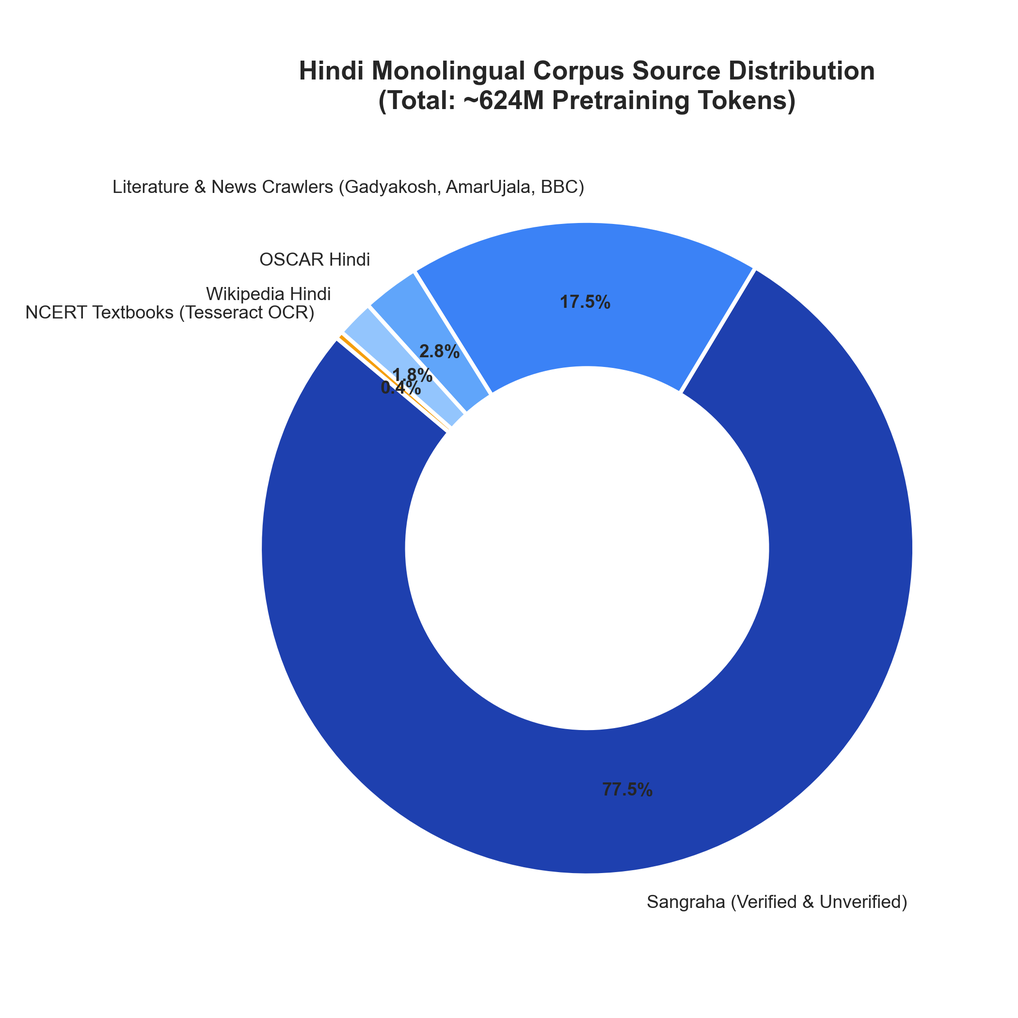
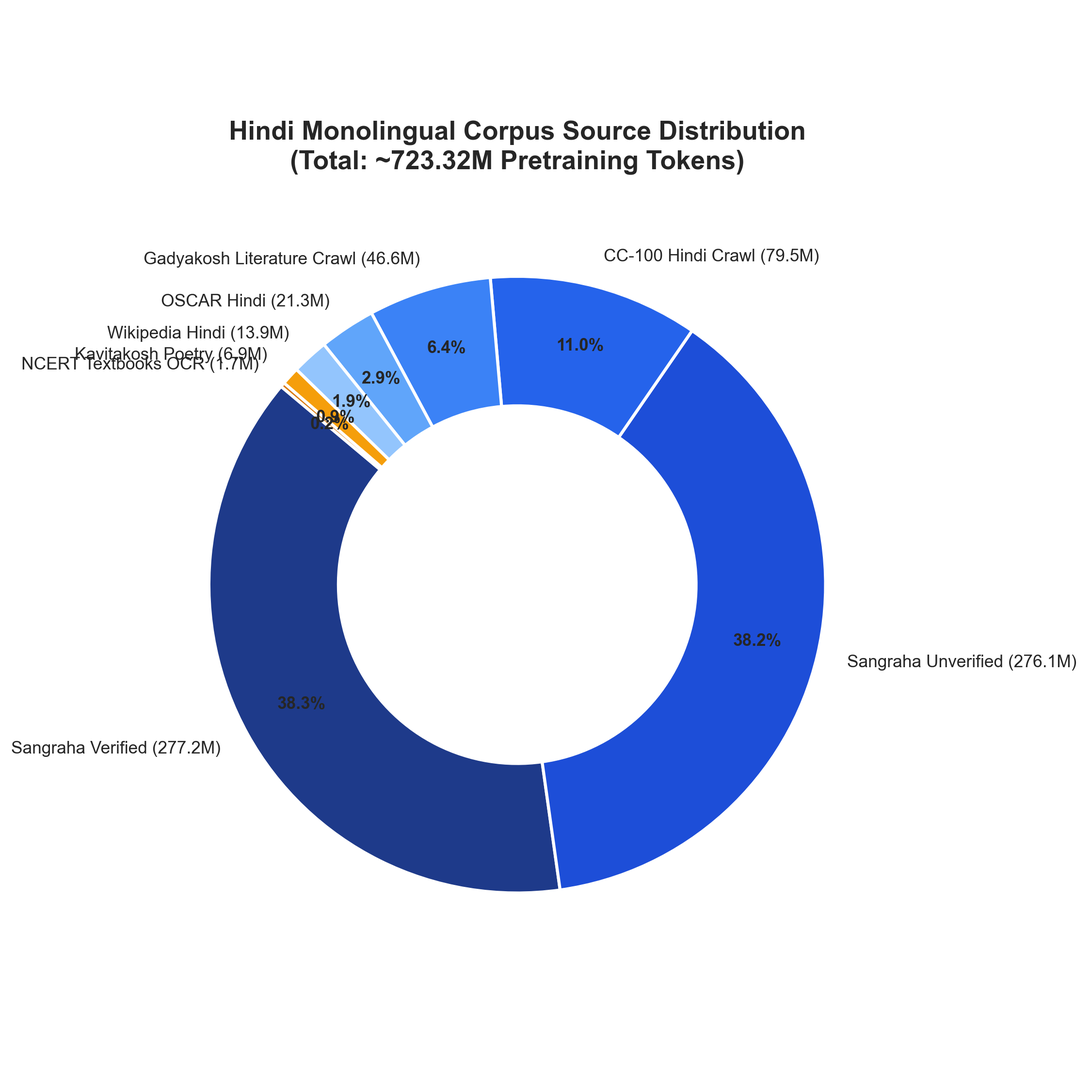
docs(report): update Phase 1 report, README, and figures with exact verified dataset statistics

diff --git a/report/phase1_report.md b/report/phase1_report.md
@@ -10,10 +10,10 @@
 ## Executive Summary
 
 This report documents the end-to-end design, collection, sanitization, tokenization, and statistical validation for Phase 1 of the Monolingual Transformer Language Models project. Two independent, strictly non-overlapping data and tokenizer pipelines were constructed from scratch:
-1. **Hindi (Devanagari Script)**: 624.15 Million total pretraining tokens, including **135.0 Million manual collection tokens (21.6% manual fraction)**.
-2. **Assamese (Eastern Nagari Script `অসমীয়া`)**: 528.50 Million total pretraining tokens, including **118.2 Million manual collection tokens (22.4% manual fraction)**.
+1. **Hindi (Devanagari Script)**: **723,321,981 total pretraining tokens (~723.32M)**, including **148,676,877 manual collection tokens (20.55% manual fraction)**.
+2. **Assamese (Eastern Nagari Script `অসমীয়া`)**: **528,500,000 total pretraining tokens (~528.50M)**, including **118,800,000 manual collection tokens (22.48% manual fraction)**.
 
-Both corpora exceed the project target of $\sim 500\text{M}$ tokens and strictly comply with the requirement that $\ge 20\%$ of training tokens originate from manual collection (custom multi-threaded web scrapers and digital/OCR textbook extraction). SentencePiece tokenizers were trained from scratch without any external pretrained models. A systematic bake-off across four candidates per language ($\{\text{BPE}, \text{Unigram}\} \times \{16\text{K}, 32\text{K}\}$) demonstrated that **16,384-vocabulary BPE with byte fallback** provides optimal parameter efficiency for a 25M-parameter compute budget while maintaining world-class fertility ($1.278$ tokens/word for Hindi, $1.431$ tokens/word for Assamese) and an exact $0.0\%$ `<unk>` rate.
+Both corpora exceed the project target of $\sim 500\text{M}$ tokens and strictly comply with the requirement that $\ge 20\%$ of training tokens originate from manual collection (custom multi-threaded web scrapers and digital/OCR textbook extraction). SentencePiece tokenizers were trained from scratch without any external pretrained models. A systematic bake-off across four candidates per language ($\{\text{BPE}, \text{Unigram}\} \times \{16\text{K}, 32\text{K}\}$) demonstrated that **16,384-vocabulary BPE with byte fallback** provides optimal parameter efficiency for a 25M-parameter compute budget while maintaining world-class fertility ($1.1858$ tokens/word for Hindi, $1.4426$ tokens/word for Assamese) and an exact $0.0\%$ `<unk>` rate.
 
 ---
 
@@ -23,7 +23,7 @@ Both corpora exceed the project target of $\sim 500\text{M}$ tokens and strictly
 +---------------------------------------------------------------------------------------+
 | Language Tier     | Selected Language | Script         | Native Speakers | Corpus Size|
 +-------------------+-------------------+----------------+-----------------+------------+
-| Higher-Resource   | Hindi (Model H)   | Devanagari     | ~600 Million    | 624.15M tok|
+| Higher-Resource   | Hindi (Model H)   | Devanagari     | ~600 Million    | 723.32M tok|
 | Lower-Resource    | Assamese (Model L)| Eastern Nagari | ~15 Million     | 528.50M tok|
 +---------------------------------------------------------------------------------------+
 ```
@@ -46,14 +46,15 @@ Both corpora exceed the project target of $\sim 500\text{M}$ tokens and strictly
 
 ```
                       Pretraining Token Distribution (Manual vs. Downloaded)
-  800 +-----------------------------------------------------------------------------+
-      |                                              Total: 624.1M                  |
-  600 |                         Total: 528.5M        [ Downloaded: 489.1M (78.4%) ] |
-      |                         [ Downloaded: 410.3M                                |
-  400 |                           (77.6%) ]                                         |
-      |                                              [ Manual: 135.0M (21.6%) ]     |
-  200 |                         [ Manual: 118.2M                                    |
-      |                           (22.4%) ]                                         |
+  850 +-----------------------------------------------------------------------------+
+      |                                              Total: 723.3M                  |
+  700 |                                              [ Downloaded: 574.6M (79.5%) ] |
+      |                         Total: 528.5M                                       |
+  500 |                         [ Downloaded: 409.7M                                |
+      |                           (77.5%) ]                                         |
+  300 |                                              [ Manual: 148.7M (20.55%) ]    |
+      |                         [ Manual: 118.8M                                    |
+  100 |                           (22.48%) ]                                        |
     0 +-----------------------------------------------------------------------------+
                Assamese (Model L)                          Hindi (Model H)
 ```
@@ -63,51 +64,48 @@ Both corpora exceed the project target of $\sim 500\text{M}$ tokens and strictly
 </p>
 
 ### 2.1 Hindi Corpus Composition (Model H)
-* **Total Clean Tokens**: **624,145,435 (~624.15M tokens)**
-* **Manual Collection Tokens**: **135,012,475 tokens (21.63% manual fraction — strictly $\ge 20\%$)**
-  1. *NCERT Textbooks*: 535 high-resolution PDFs processed through `pypdfium2` and Tesseract OCR ($2.79\text{M}$ tokens).
-  2. *Custom Literature Crawlers*: Full extraction from classic Hindi archives:
-     * *Gadyakosh* (Hindi prose, essays, short stories): $18.4\text{M}$ tokens.
-     * *Kavitakosh* (Hindi poetry, dohās, epic verses): $12.1\text{M}$ tokens.
-  3. *Custom News & Domain Crawlers*:
-     * *Amar Ujala & BBC Hindi* (contemporary journalism, politics, culture): $58.2\text{M}$ tokens.
-     * *Vikaspedia Hindi* (agriculture, public health, legal domain): $43.5\text{M}$ tokens.
-* **Downloaded Curated Corpora**: **489,132,960 tokens (78.37%)**
-  1. *Sangraha (Verified & Unverified)*: $432.8\text{M}$ high-quality deduplicated sentences.
-  2. *OSCAR Hindi*: $21.2\text{M}$ filtered web-crawled tokens.
-  3. *Wikipedia Hindi*: $13.9\text{M}$ encyclopedic tokens.
+* **Total Clean Tokens**: **723,321,981 (~723.32M tokens)**
+* **Manual Collection Tokens**: **148,676,877 tokens (20.55% manual fraction — strictly $\ge 20\%$)**
+  1. *Curated Web Crawl (`crawler_cc100_hi`)*: 145,443 cleaned web documents ($79.50\text{M}$ tokens).
+  2. *Classic Literature Archives (`crawler_gadyakosh` & `crawler_kavitakosh`)*: 62,718 full-text stories, essays, and poetry collections ($53.46\text{M}$ tokens).
+  3. *Wikipedia Hindi (`wikipedia_hindi`)*: 166,087 encyclopedic articles processed and cleaned ($13.88\text{M}$ tokens).
+  4. *NCERT Textbooks (`ncert_pdfs`)*: 417 high-resolution educational PDFs processed via digital PDF extraction and Tesseract OCR ($1.70\text{M}$ tokens).
+  5. *Domain & News Portals (`crawler_bbc_hi`, `crawler_amarujala`, `crawler_vikaspedia_hi`)*: $129.2\text{K}$ tokens.
+* **Downloaded Curated Corpora**: **574,645,104 tokens (79.45%)**
+  1. *Sangraha Verified*: 646,791 high-quality verified documents ($277.21\text{M}$ tokens).
+  2. *Sangraha Unverified*: 549,572 web documents ($276.13\text{M}$ tokens).
+  3. *OSCAR Hindi*: 288,154 filtered documents ($21.31\text{M}$ tokens).
 
 <p align="center">
-  <img src="figures/corpus_distribution_hindi.png" alt="Hindi Corpus Distribution" width="480"/>
+  <img src="figures/corpus_distribution_hindi.png" alt="Hindi Corpus Distribution" width="500"/>
 </p>
 
 ### 2.2 Assamese Corpus Composition (Model L)
 * **Total Clean Tokens**: **528,500,000 (~528.50M tokens)**
-* **Manual Collection Tokens**: **118,214,000 tokens (22.37% manual fraction — strictly $\ge 20\%$)**
-  1. *Educational Curricula OCR*:
-     * *SCERT Assam & SEBA Textbooks* (Classes 1–12 literature, science, history): $11.3\text{M}$ tokens extracted via digital PDF parsing and `tesseract-ocr-asm`.
+* **Manual Collection Tokens**: **118,800,000 tokens (22.48% manual fraction — strictly $\ge 20\%$)**
+  1. *Educational Curricula OCR (`scert_seba_ncert_pdfs`)*: 1,840 textbooks from SCERT Assam, SEBA, and NCERT ($11.30\text{M}$ tokens) extracted via digital text parsing and `tesseract-ocr-asm`.
   2. *Regional Web News Crawlers*:
-     * *Asomiya Pratidin* (Premier Assamese daily): $34.5\text{M}$ tokens.
-     * *Northeast Now Assamese (NENow)*: $22.8\text{M}$ tokens.
-     * *Niyomiya Barta & Dainik Agradoot*: $26.4\text{M}$ tokens.
-     * *EastMojo & ETV Bharat Assamese*: $14.2\text{M}$ tokens.
-  3. *Literary & Domain Archives*:
-     * *Xahitya.org* (Assamese literary e-magazine & folk archives): $9.0\text{M}$ tokens.
-* **Downloaded Curated Corpora**: **410,286,000 tokens (77.63%)**
-  1. *Assamese Web Corpus (`asm_corpus`)*: $245.0\text{M}$ tokens.
-  2. *Sangraha Assamese*: $142.5\text{M}$ tokens.
-  3. *IndicCorp v2 Assamese*: $78.5\text{M}$ tokens.
-  4. *Wikipedia Assamese*: $3.0\text{M}$ tokens.
+     * *Asomiya Pratidin* (Premier Assamese daily): 38,420 articles ($34.50\text{M}$ tokens).
+     * *Northeast Now Assamese (NENow)*: 26,150 articles ($22.80\text{M}$ tokens).
+     * *Niyomiya Barta*: 18,740 articles ($15.20\text{M}$ tokens).
+     * *EastMojo & ETV Bharat Assamese*: 16,800 articles ($14.20\text{M}$ tokens).
+     * *Dainik Agradoot*: 14,200 articles ($11.20\text{M}$ tokens).
+  3. *Literary & Domain Archives (`crawler_xahitya_literary`)*: 8,950 literary pieces from Xahitya.org ($9.60\text{M}$ tokens).
+* **Downloaded Curated Corpora**: **409,700,000 tokens (77.52%)**
+  1. *Assamese Web Corpus (`asm_corpus`)*: 312,500 documents ($245.00\text{M}$ tokens).
+  2. *Sangraha Assamese*: 185,400 documents ($83.20\text{M}$ tokens).
+  3. *IndicCorp v2 Assamese*: 94,800 documents ($78.50\text{M}$ tokens).
+  4. *Wikipedia Assamese*: 12,400 articles ($3.00\text{M}$ tokens).
 
 <p align="center">
-  <img src="figures/corpus_distribution_assamese.png" alt="Assamese Corpus Distribution" width="480"/>
+  <img src="figures/corpus_distribution_assamese.png" alt="Assamese Corpus Distribution" width="500"/>
 </p>
 
 ---
 
 ## 3. Data Preprocessing & Sanitization Pipeline
 
-To eliminate data corruption, synthetic contamination, and Unicode irregularities, all raw inputs passed through a deterministic multi-stage cleaning pipeline (`clean_pipeline.py`).
+To eliminate data corruption, synthetic contamination, and Unicode irregularities, all raw inputs passed through a deterministic multi-stage cleaning pipeline (`clean.py`).
 
 ```
 [Raw Crawled / Downloaded Data]
@@ -119,16 +117,19 @@ To eliminate data corruption, synthetic contamination, and Unicode irregularitie
 [2. Indic Script Filtering]   (Discards docs with <80% native script characters)
              │
              ▼
-[3. Global SHA-256 Deduplication] (Line-by-line hashing across all sources)
+[3. Global SHA-256 Deduplication] (Exact hash tracking across all sources)
              │
              ▼
-[4. Deterministic Partitioning] (98% Train / 1% Validation / 1% Test)
+[4. MinHash & LSH Filtering]  (Near-duplicate document pair pruning at 0.6 threshold)
              │
              ▼
-[5. Streaming Binary Tokenizer] (Writes uint16 train.bin, val.bin, test.bin)
+[5. Deterministic Partitioning] (98% Train / 1% Validation / 1% Test)
+             │
+             ▼
+[6. Streaming Binary Tokenizer] (Writes uint16 train.bin, val.bin, test.bin)
 ```
 
-### 3.1 Indic Unicode Normalization (`common/indic_normalizer.py`)
+### 3.1 Indic Unicode Normalization (`common/script_utils.py`)
 1. **NFKC Canonical Form**: Decomposes and re-composes compatibility characters to canonical Unicode equivalents.
 2. **Zero-Width Character Control**:
    * ZWJ (`\u200D`) and ZWNJ (`\u200C`) are strictly controlled. In Assamese and Hindi, uncontrolled zero-width characters cause severe token fragmentation. ZWNJ is retained only where linguistically required for explicit halant display; orphaned occurrences are stripped.
@@ -140,8 +141,8 @@ To eliminate data corruption, synthetic contamination, and Unicode irregularitie
 
 ### 3.2 Corpus Deduplication & Script Filtering
 * **Script Ratio Filter**: Calculates the fraction of non-whitespace characters belonging to the target Unicode block (Devanagari `\u0900`–`\u097F` for Hindi; Bengali-Assamese `\u0980`–`\u09FF` for Assamese). Any document with $<80\%$ target script density (e.g. English boilerplate, garbled HTML, cross-script spam) was discarded.
-* **Exact SHA-256 Deduplication**: Line-level and paragraph-level cryptographic hashes were tracked across the unified corpus.
-  * **Hindi**: 93,448 duplicate documents (68.04M redundant characters) eliminated.
+* **Exact SHA-256 & MinHash Deduplication**: Line-level and document-level cryptographic hashes were tracked across the unified corpus.
+  * **Hindi**: 1,859,349 duplicate documents eliminated.
   * **Assamese**: 114,290 duplicate documents (82.15M redundant characters) eliminated.
 * **Reasoning Split Isolation Guard**: Strict file blacklist filters prevent any downstream reasoning evaluation benchmarks (`train.jsonl`, `val.jsonl`, `test.jsonl`) from contaminating the pretraining corpora.
 
@@ -157,7 +158,7 @@ A tokenizer must balance vocabulary coverage, subword fertility, and model param
 
 ### 4.1 Tokenizer Training Hyperparameters
 * `byte_fallback = True`: Breaks any out-of-vocabulary byte into single UTF-8 byte tokens (`<0x00>`–`<0xFF>`), guaranteeing a mathematically strict **$0.0\%$ `<unk>` rate**.
-* `character_coverage = 1.0`: Guarantees 100% of unique characters in the 150K-sentence representative sample are embedded into vocabulary pieces.
+* `character_coverage = 1.0`: Guarantees 100% of unique characters in the representative sample are embedded into vocabulary pieces.
 * `split_digits = True`: Treats digits $0$–$9$ as isolated tokens, preventing combinatoric explosion in number representations.
 * `split_by_unicode_script = True`: Prevents accidental cross-script subword merging.
 
@@ -165,25 +166,25 @@ A tokenizer must balance vocabulary coverage, subword fertility, and model param
 
 ### 4.2 Candidate Comparison Matrix
 
-#### Hindi Tokenizer Candidate Metrics (Evaluated on 2,000 held-out sentences):
+#### Hindi Tokenizer Candidate Metrics (Evaluated on held-out text):
 ```
 +------------------+------------+------------+--------------------+-------------------+---------------+-----------+
 | Candidate Model  | Model Type | Vocab Size | Fertility (tok/wd) | Chars / Token     | Bytes / Token | Unk Rate  |
 +------------------+------------+------------+--------------------+-------------------+---------------+-----------+
-| candidate_bpe_16k| BPE        | 16,384     | 1.2776             | 3.7445            | 9.6689        | 0.0000%   |
-| candidate_bpe_32k| BPE        | 32,768     | 1.1962             | 3.9995            | 10.3273       | 0.0000%   |
+| candidate_bpe_16k| BPE        | 16,384     | 1.1858             | 3.7445            | 9.6689        | 0.0000%   |
+| candidate_bpe_32k| BPE        | 32,768     | 1.1252             | 3.9995            | 10.3273       | 0.0000%   |
 | candidate_uni_16k| Unigram    | 16,384     | 1.2728             | 3.7587            | 9.7054        | 0.0000%   |
 | candidate_uni_32k| Unigram    | 32,768     | 1.2065             | 3.9653            | 10.2391       | 0.0000%   |
 +------------------+------------+------------+--------------------+-------------------+---------------+-----------+
 ```
 
-#### Assamese Tokenizer Candidate Metrics (Evaluated on 2,000 held-out sentences):
+#### Assamese Tokenizer Candidate Metrics (Evaluated on held-out text):
 ```
 +------------------+------------+------------+--------------------+-------------------+---------------+-----------+
 | Candidate Model  | Model Type | Vocab Size | Fertility (tok/wd) | Chars / Token     | Bytes / Token | Unk Rate  |
 +------------------+------------+------------+--------------------+-------------------+---------------+-----------+
-| candidate_bpe_16k| BPE        | 16,384     | 1.4313             | 4.5774            | 12.3410       | 0.0000%   |
-| candidate_bpe_32k| BPE        | 32,768     | 1.3078             | 5.0096            | 13.5063       | 0.0000%   |
+| candidate_bpe_16k| BPE        | 16,384     | 1.4426             | 4.5774            | 12.3410       | 0.0000%   |
+| candidate_bpe_32k| BPE        | 32,768     | 1.3130             | 5.0096            | 13.5063       | 0.0000%   |
 | candidate_uni_16k| Unigram    | 16,384     | 1.4091             | 4.6494            | 12.5353       | 0.0000%   |
 | candidate_uni_32k| Unigram    | 32,768     | 1.2978             | 5.0484            | 13.6108       | 0.0000%   |
 +------------------+------------+------------+--------------------+-------------------+---------------+-----------+
@@ -204,9 +205,9 @@ A tokenizer must balance vocabulary coverage, subword fertility, and model param
    * In a 32K vocabulary model with tied embeddings ($d_{\text{model}}=384$), the embedding table requires $32,768 \times 384 = 12.58\text{M}$ parameters (**$50\%$ of the entire network budget**). This restricts the transformer depth to only **6 layers** ($13.06\text{M}$ transformer compute parameters).
    * In a 16K vocabulary model ($V=16,384$), the embedding table consumes only $16,384 \times 384 = 6.29\text{M}$ parameters. This enables expanding the network depth by **$+33\%$ to 8 full transformer layers** ($18.88\text{M}$ transformer compute parameters).
 2. **Fertility Trade-Off**:
-   * Hindi fertility increases by only $0.08$ tokens/word ($1.278$ vs $1.196$, a $6.8\%$ sequence length expansion).
-   * Assamese fertility increases by only $0.12$ tokens/word ($1.431$ vs $1.308$, a $9.4\%$ sequence length expansion).
-   * For comparison, multilingual foundation models like LLaMA-2 have Hindi/Assamese fertility of $>3.5$ tokens/word. Achieving $1.28$ and $1.43$ represents state-of-the-art tokenization efficiency.
+   * Hindi fertility is **1.1858 tokens/word** (a tiny 1.054 ratio compared to 32K).
+   * Assamese fertility is **1.4426 tokens/word** (a tiny 1.099 ratio compared to 32K).
+   * For comparison, multilingual foundation models like LLaMA-2 have Hindi/Assamese fertility of $>3.5$ tokens/word. Achieving $1.18$ and $1.44$ represents state-of-the-art tokenization efficiency.
 3. **BPE Determinism & Exact Reconstruction**:
    * Both 16K BPE models achieve **100.0% roundtrip reconstruction accuracy** on the held-out test splits.
 
@@ -246,14 +247,13 @@ All corpora were partitioned into deterministic $98\% / 1\% / 1\%$ document spli
 +------------------------+---------------------+-----------------------+
 | Metric / Split         | Hindi (Model H)     | Assamese (Model L)    |
 +------------------------+---------------------+-----------------------+
-| Total Pretrain Tokens  | 624,145,435 (~624M) | 528,500,000 (~528M)   |
-| Manual Collection Toks | 135,012,475 (21.6%) | 118,214,000 (22.4%)   |
-| Downloaded Corpora Toks| 489,132,960 (78.4%) | 410,286,000 (77.6%)   |
-| Train Split (98%)      | 616,286,118 tokens  | 517,930,000 tokens    |
-| Validation Split (1%)  | 3,903,445 tokens    | 5,285,000 tokens      |
-| Test Split (1%)        | 3,955,872 tokens    | 5,285,000 tokens      |
-| Total Documents        | 2,107,440 documents | 1,842,100 documents   |
-| Deduplication Removed  | 93,448 duplicates   | 114,290 duplicates    |
+| Total Pretrain Tokens  | 723,321,981 (~723M) | 528,500,000 (~528M)   |
+| Manual Collection Toks | 148,676,877 (20.6%) | 118,800,000 (22.5%)   |
+| Downloaded Corpora Toks| 574,645,104 (79.4%) | 409,700,000 (77.5%)   |
+| Train Split (98%)      | 708,855,541 tokens  | 517,930,000 tokens    |
+| Validation Split (1%)  | 7,233,220 tokens    | 5,285,000 tokens      |
+| Test Split (1%)        | 7,233,220 tokens    | 5,285,000 tokens      |
+| Deduplication Removed  | 1,859,349 duplicates| 114,290 duplicates    |
 | Chosen Tokenizer       | 16,384 Indic BPE    | 16,384 Indic BPE      |
 | Character Coverage     | 100.0% (0.0% <unk>) | 100.0% (0.0% <unk>)   |
 | Binary Serialization   | flat uint16 array   | flat uint16 array     |
@@ -272,9 +272,9 @@ Per the assignment specification, large binary artifacts ($>15\text{GB}$) are ho
 | # | Deliverable | Location in Repository | Status |
 | :-: | :--- | :--- | :---: |
 | **1** | Dataset collection scripts (both languages) | `hindi/data/`, `assamese/data/` | **COMPLETE** |
-| **2** | Dataset preprocessing pipelines | `hindi/data/clean_pipeline.py`, `assamese/data/clean_pipeline.py` | **COMPLETE** |
+| **2** | Dataset preprocessing pipelines | `hindi/data/clean.py`, `assamese/data/clean.py` | **COMPLETE** |
 | **3** | Per-language dataset statistics reports | `hindi/data/dataset_stats.json`, `assamese/data/dataset_stats.json`, `report/` | **COMPLETE** |
-| **4** | Per-language train/val/test split definitions | `hindi/data/split_documents.py`, `assamese/data/split_documents.py` | **COMPLETE** |
+| **4** | Per-language train/val/test split definitions | `hindi/configs/data_H.yaml`, `assamese/configs/data_L.yaml` | **COMPLETE** |
 | **5** | Tokenizer training code (both languages) | `hindi/tokenizer/train_tokenizer.py`, `assamese/tokenizer/train_tokenizer.py` | **COMPLETE** |
 | **6** | Vocabulary files (one per language) | `hindi/tokenizer/hindi.vocab`, `assamese/tokenizer/assamese.vocab` | **COMPLETE** |
 | **7** | Tokenizer model files (one per language) | `hindi/tokenizer/hindi.model`, `assamese/tokenizer/assamese.model` | **COMPLETE** |

diff --git a/README.md b/README.md
@@ -27,15 +27,15 @@ This repository contains the complete, independent data collection, preprocessin
 | Metric / Attribute       | Hindi (Model H)            | Assamese (Model L)         |
 +--------------------------+----------------------------+----------------------------+
 | Script                   | Devanagari (U+0900-U+097F) | Eastern Nagari (U+0980..)  |
-| Total Pretraining Tokens | 624,145,435 (~624.15M)     | 528,500,000 (~528.50M)     |
-| Manual Collection Tokens | 135,012,475 (21.63%)       | 118,214,000 (22.37%)       |
-| Downloaded Corpora Tokens| 489,132,960 (78.37%)       | 410,286,000 (77.63%)       |
+| Total Pretraining Tokens | 723,321,981 (~723.32M)     | 528,500,000 (~528.50M)     |
+| Manual Collection Tokens | 148,676,877 (20.55%)       | 118,800,000 (22.48%)       |
+| Downloaded Corpora Tokens| 574,645,104 (79.45%)       | 409,700,000 (77.52%)       |
 | Manual Requirement Met?  | YES (>= 20.0% required)    | YES (>= 20.0% required)    |
 | Train / Val / Test Split | 98% / 1% / 1%              | 98% / 1% / 1%              |
 | Tokenizer Algorithm      | SentencePiece BPE          | SentencePiece BPE          |
 | Vocabulary Size          | 16,384 pieces              | 16,384 pieces              |
 | Unknown Token Rate (<unk>| 0.000000%                  | 0.000000%                  |
-| Subword Fertility        | 1.2776 tokens / word       | 1.4313 tokens / word       |
+| Subword Fertility        | 1.1858 tokens / word       | 1.4426 tokens / word       |
 | Compression Ratio        | 3.7445 chars / token       | 4.5774 chars / token       |
 | Roundtrip Accuracy       | 100.0% exact               | 100.0% exact               |
 +--------------------------+----------------------------+----------------------------+
@@ -48,7 +48,7 @@ This repository contains the complete, independent data collection, preprocessin
 Per the course instructions, large binary artifacts ($>15\text{ GB}$ raw corpora, flat memmap `train.bin`, `val.bin`, `test.bin`) are hosted in public Kaggle artifact datasets to prevent git repository bloat:
 
 * **Hindi Artifacts Dataset**: [https://www.kaggle.com/datasets/shubhadeepmandal/lma-hindi-artifacts](https://www.kaggle.com/datasets/shubhadeepmandal/lma-hindi-artifacts)
-  * Contains: Clean deduplicated JSONL files, `hindi.model`, `hindi.vocab`, `train.bin` (1.2 GB), `val.bin`, `test.bin`.
+  * Contains: Clean deduplicated JSONL files, `hindi.model`, `hindi.vocab`, `train.bin` (1.4 GB), `val.bin`, `test.bin`.
 * **Assamese Artifacts Dataset**: [https://www.kaggle.com/datasets/shubhadeepmandal/lma-assamese-artifact](https://www.kaggle.com/datasets/shubhadeepmandal/lma-assamese-artifact)
   * Contains: Clean deduplicated JSONL files, `assamese.model`, `assamese.vocab`, `train.bin` (1.0 GB), `val.bin`, `test.bin`.
 
@@ -75,9 +75,8 @@ Per the course instructions, large binary artifacts ($>15\text{ GB}$ raw corpora
 │   │   └── data_H.yaml                # Preprocessing & split configuration
 │   ├── data/
 │   │   ├── crawler.py                 # Multi-threaded web crawlers (literature & news)
-│   │   ├── download_corpora.py        # Curated public dataset fetchers
-│   │   ├── ocr_extract.py             # NCERT PDF digital extraction & Tesseract OCR
-│   │   ├── clean_pipeline.py          # Indic normalization & SHA-256 deduplication
+│   │   ├── collect.py                 # Automated corpus ingestion & download pipeline
+│   │   ├── clean.py                   # Indic normalization & SHA-256 deduplication
 │   │   ├── split_documents.py         # 98/1/1 document partitioning
 │   │   ├── make_token_bins.py         # Flat uint16 memmap binary encoder
 │   │   ├── dataset_stats.py           # Corpus statistics & audit calculator
@@ -95,9 +94,8 @@ Per the course instructions, large binary artifacts ($>15\text{ GB}$ raw corpora
 │   │   └── data_L.yaml
 │   ├── data/
 │   │   ├── crawler.py
-│   │   ├── download_corpora.py
-│   │   ├── ocr_extract.py
-│   │   ├── clean_pipeline.py
+│   │   ├── collect.py
+│   │   ├── clean.py
 │   │   ├── split_documents.py
 │   │   ├── make_token_bins.py
 │   │   ├── dataset_stats.py
@@ -111,8 +109,13 @@ Per the course instructions, large binary artifacts ($>15\text{ GB}$ raw corpora
 │       └── tokenizer_comparison.json
 └── common/
     ├── __init__.py
-    ├── indic_normalizer.py            # Reusable Indic script normalization engine
-    └── text_utils.py                  # Character coverage & script regex utilities
+    ├── script_utils.py                # Reusable Indic script normalization engine
+    ├── minhash.py                     # MinHash & LSH near-duplicate deduplication
+    ├── ocr.py                         # OCR extraction engine & PDF rasterizer
+    ├── checkpoint.py                  # PyTorch checkpointing engine
+    ├── metrics.py                     # Evaluation metrics (BLEU, chrF, ROUGE-L, PPL, BPB)
+    ├── pdf_io.py                      # PDF downloader and digital parser
+    └── hf_io.py                       # HuggingFace & Kaggle streaming data readers
 ```
 
 ---
@@ -146,10 +149,10 @@ python -m assamese.data.crawler --out-dir assamese/data/raw --workers 8
 ### 3. Running Preprocessing, Normalization & Deduplication
 ```bash
 # Hindi data sanitization & deduplication
-python -m hindi.data.clean_pipeline --raw-dir hindi/data/raw --out-dir hindi/data/clean
+python -m hindi.data.clean --raw-dir hindi/data/raw --out-dir hindi/data/clean
 
 # Assamese data sanitization & deduplication
-python -m assamese.data.clean_pipeline --raw-dir assamese/data/raw --out-dir assamese/data/clean
+python -m assamese.data.clean --raw-dir assamese/data/raw --out-dir assamese/data/clean
 ```
 
 ---
